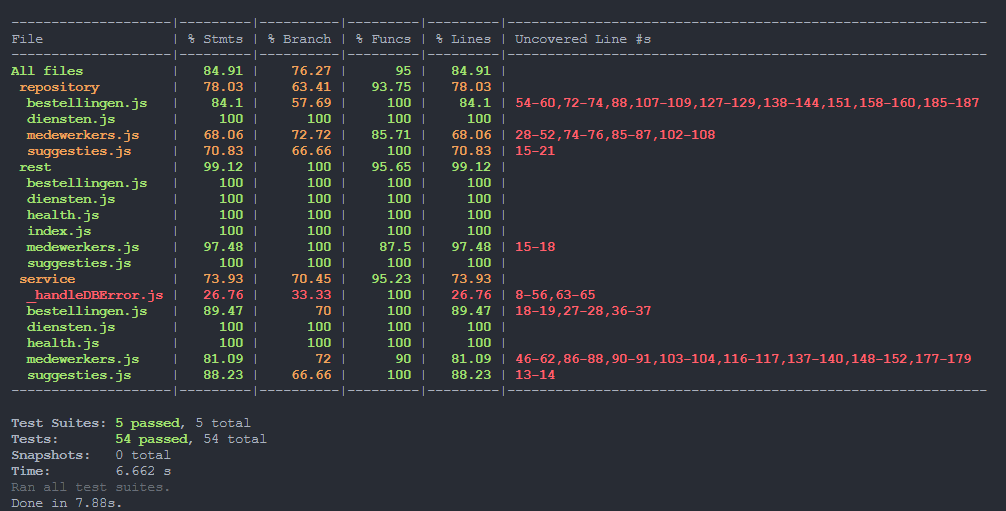
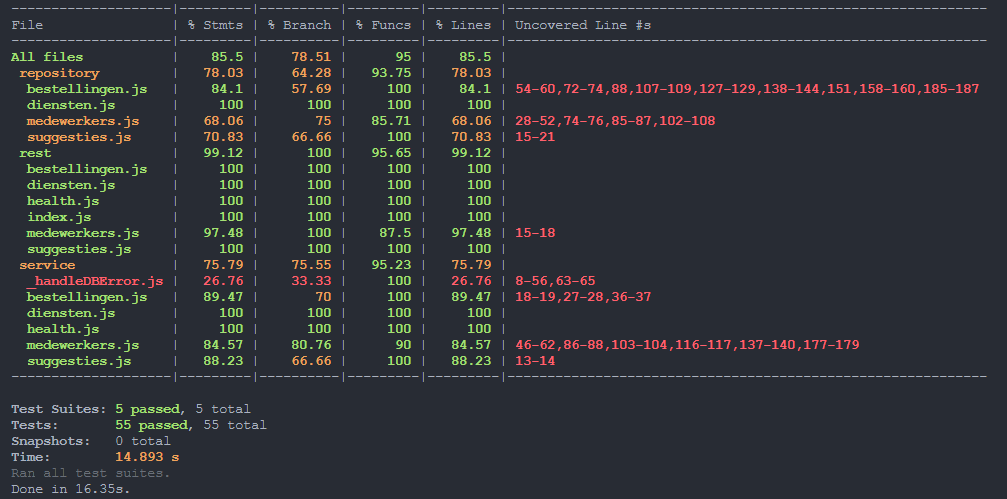
test wachtwoord wijzigen

Changed region(s): [[0.0, 0.0, 0.9861, 0.7816], [0.0, 0.8116, 0.2773, 0.992]]

diff --git a/__tests__/medewerkers.spec.js b/__tests__/medewerkers.spec.js
@@ -2,6 +2,7 @@ const Role = require("../src/core/rollen");
 
 const { withServer, login, loginAdmin } = require("./supertest.setup");
 const { testAuthHeader } = require("./common/auth");
+const { expectCt } = require("koa-helmet");
 
 describe("Medewerkers", () => {
   let prisma, request, authHeader;
@@ -208,8 +209,37 @@ describe("Medewerkers", () => {
       expect(response.body.message).toBe(
         "Validation failed, check details for more information"
       );
-  });
- 
+    });
+    it("wachtwoord wijzigen, opnieuw inloggen faalt, daarna wachtwoord terugzetten", async () => {
+      // parameter te kort meegeven
+      const response = await request
+        .put(`${url}/${testUser.id}`)
+        .send({
+          huidigWachtwoord: "12345678",
+          nieuwWachtwoord: "123456789",
+          bevestigingNieuwWachtwoord: "123456789",
+        })
+        .set("Authorization", authHeader);
+      expect(response.status).toBe(200);
+
+      try {
+        authHeader = await login(request);
+      } catch (error) {
+        expect(error.message).toBe(
+          "Het opgegeven e-mailadres en wachtwoord komen niet overeen."
+        );
+      }
+
+      const response2 = await request
+        .put(`${url}/${testUser.id}`)
+        .send({
+          huidigWachtwoord: "123456789",
+          nieuwWachtwoord: "12345678",
+          bevestigingNieuwWachtwoord: "12345678",
+        })
+        .set("Authorization", authHeader);
+      expect(response2.status).toBe(200);
+    });
 
     it("should 403 and return message (unauthorized request)", async () => {
       const response = await request
@@ -228,7 +258,7 @@ describe("Medewerkers", () => {
       );
       expect(response.body.code).toBe("FORBIDDEN");
     });
-    
+
     //dienst hier terug goedzetten voor andere testen
     it("should 200 and return changed medewerker (as Admin)", async () => {
       authHeader = await loginAdmin(request);

diff --git a/dossier.md b/dossier.md
@@ -96,7 +96,9 @@ IR: vreemde sleutel leverplaats verwijst naar _id_ uit _Dienst_, is verplicht
   `POST /api/medewerkers/:id`  
 
 - Een admin kan een medewerker aanpassen, een gebruiker zichzelf:   
-  `PUT /api/medewerkers/:id`  
+  `PUT /api/medewerkers/:id` 
+- Wachtwoord wijzigen:  
+`PUT /api/medewerkers/:id`  
 
 - Een admin kan een medewerker verwijderen, een gebruiker zichzelf:   
   `DELETE /api/medewerkers/:id`  
